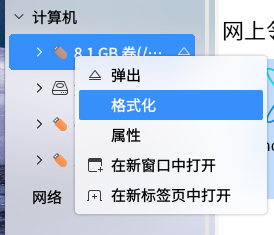
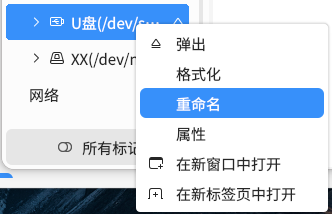
[FIX]用例305371】用户手册显示中两处显示与文件管理器实际显示不一致 [LINK]bug#120486

diff --git a/data/peony/zh_CN/index.md b/data/peony/zh_CN/index.md
@@ -205,6 +205,8 @@
 
 * 格式化：系统默认格式化为NTFS文件系统，用户可自行更改为Ext4或者VFAT格式；格式化过程中请勿移除设备，否则会产生异常，导致设备无法挂载等问题。
 
+* 重命名：支持对移动设备（例如：U盘、移动硬盘等设备）进行重命名，也支持分区的重命名，有一些分区暂时不支持重命名（例如：文件系统分区、数据盘等）。
+
 ![图 17 格式化](image/17.png)
 
 ### 访问网络
